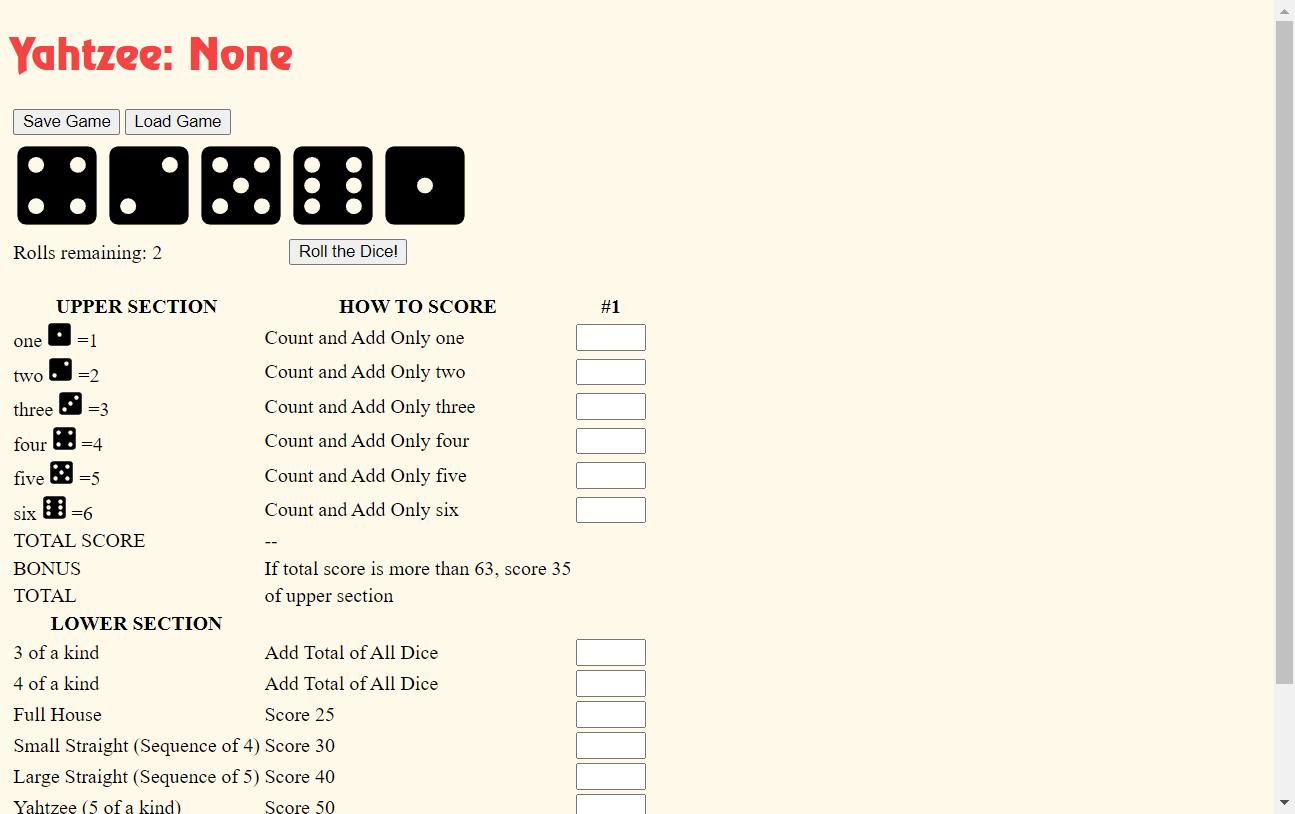
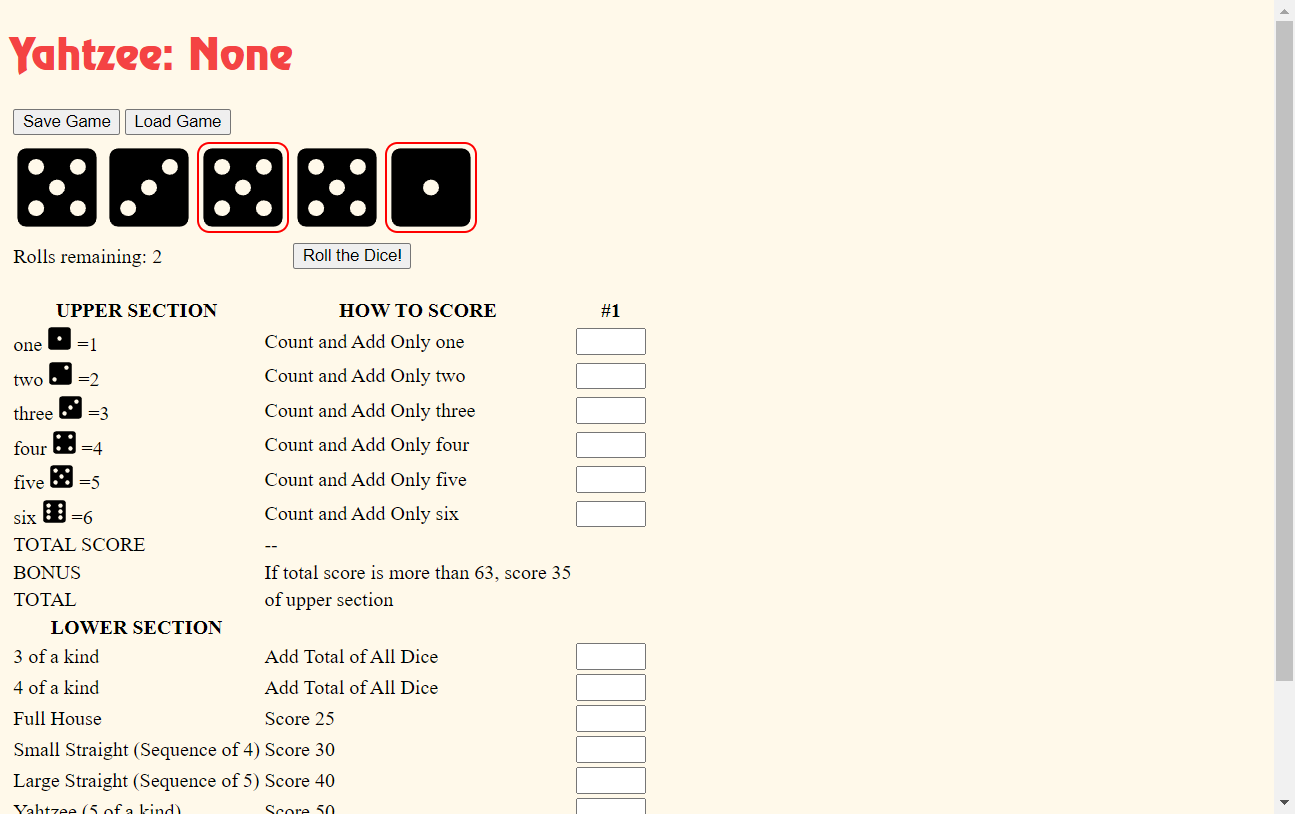
9/20 2

diff --git a/yahtzee/static/js/Dice.js b/yahtzee/static/js/Dice.js
@@ -80,24 +80,39 @@ class Dice{
     */
     roll(){ 
         //🆘🆘🆘🆘🆘🆘ONLY ROLL IS FAILING!
+        
+        //create an array with true/false based on if die is reserved
+        let reserved_array = []
+        for (let i = 0; i<5; i++){
+            let die = document.getElementById("die_"+i);
+
+            if (die.classList.contains("reserved")){
+                reserved_array.push(true);
+            }
+            else{
+                reserved_array.push(false);
+            }
+        }
+        console.log(reserved_array)
 
         // Changes rolls remaining
         let rolls_remaining = this.rolls_remaining_element.textContent;
         let done_rolling = false;
         if (rolls_remaining>=0){
-            rolls_remaining = Number(rolls_remaining) - 1;
-            if (rolls_remaining == -1){
-                done_rolling = true;
-            }
+                rolls_remaining = Number(rolls_remaining) - 1;
+                if (rolls_remaining == -1){
+                    done_rolling = true;
+                }
         }
-        
-        //create an array with true/false based on if it has the class
 
         //Creates array w/ new values
         let die_values_array = this.get_values();
         for (let i=0; i<5; i++){
             let die_value = Math.floor(Math.random() * 6) + 1;
-            die_values_array[i] = die_value;
+
+            if (reserved_array[i] == false){
+                die_values_array[i] = die_value;
+            }
         }
         console.log(die_values_array);
         

diff --git a/yahtzee/test_MS1_Dice_class.py b/yahtzee/test_MS1_Dice_class.py
@@ -177,7 +177,9 @@ class Dice_Helper_Function_Tests(unittest.TestCase):
             self.browser.get(self.url) 
     
             for i in range(3):
+                #self.browser.save_screenshot('what.png')
                 self.browser.execute_script(f"window.dice.roll();");
+                #self.browser.save_screenshot('what2.png')
             
                 for i in range(5):
                     die_element = self.browser.find_element(By.ID, f"die_{i}")
